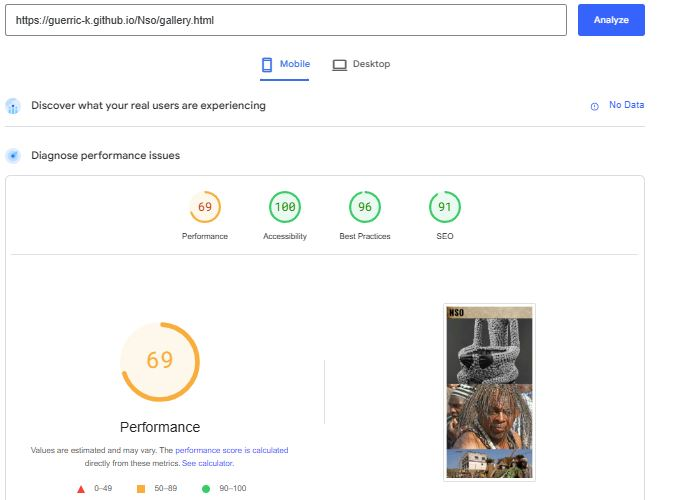
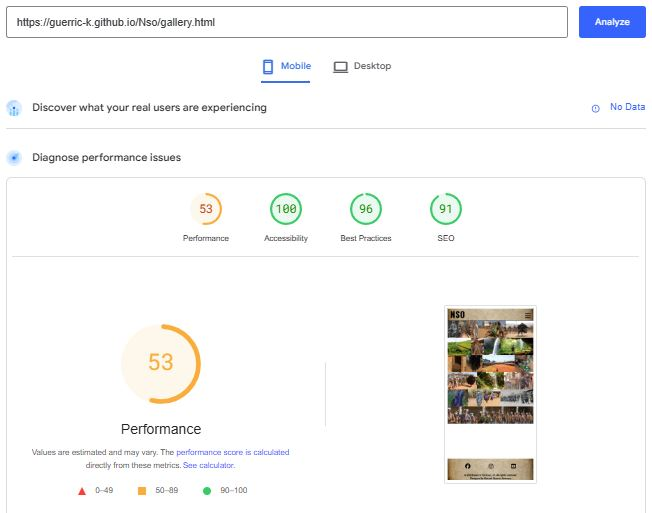
add height for img on screens of 820px

diff --git a/assets/css/style.css b/assets/css/style.css
@@ -408,6 +408,6 @@ article {
 @media screen and (min-width:820px) {
 
     .l-gallery {
-        height: 20vh;
+        height: 30vh;
     }
     }
